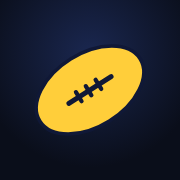
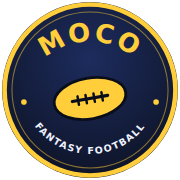
Live voting with public roll call, and a MoCo Fantasy Football crest
Voting no longer generates ballot codes. Members pick their name, tap
choices, and Submit writes to a shared JSON ballot box (jsonblob);
a Live Results board shows who voted for what — per-option voter names,
live passing/not-passing verdicts, abstentions, and who's still missing —
refreshing every 20 seconds. Votes are keyed by member, so re-voting
updates your entry. Until the commish creates the shared box (one-time
card on the Vote tab, VOTING.store config), the tab shows setup
instructions. Commissioner tally and ballot-code plumbing removed.

New league crest: gold badge with arched MOCO wordmark, stitched
football, FANTASY FOOTBALL arc — now the header logo, favicon, and
home-screen icon.

Claude-Session: https://claude.ai/code/session_011bhkcK5pGqLv39nWfNP1Ph

diff --git a/index.html b/index.html
@@ -331,7 +331,7 @@
 
 <header>
   <div class="brand">
-    <div class="logo" id="league-logo">🏈</div>
+    <div class="logo" id="league-logo"><img src="icon.svg" alt="MoCo Fantasy Football" /></div>
     <div class="title">
       <h1 id="site-title">League HQ</h1>
       <p id="site-sub">Trophies · Records · Votes</p>
@@ -403,24 +403,34 @@
   <section id="view-vote" class="hidden">
     <div class="card">
       <h2>Rule Changes on the Ballot</h2>
-      <p class="sub">
-        Cast your ballot below, then paste your ballot code in the league chat.
-        The commish pastes everyone's codes into the tally tool for official results —
-        votes are public in the chat, so everything is verifiable.
-      </p>
+      <p class="sub">Voting is live and public — pick your name, make your calls, hit submit. The board below updates for the whole league.</p>
       <div id="prop-list"></div>
     </div>
 
-    <div class="card">
-      <h2>🗳 Cast Your Ballot</h2>
+    <div class="card" id="vote-setup-card" style="display:none">
+      <h2>🔌 Turn on live voting</h2>
+      <p class="sub">One-time commish step: the league needs a shared ballot box (a tiny free JSON store — no accounts, nothing to install).</p>
+      <div style="display:flex;gap:10px;flex-wrap:wrap">
+        <button class="btn gold" id="store-create">Create the ballot box</button>
+      </div>
+      <div id="store-out"></div>
+    </div>
+
+    <div class="card" id="vote-cast-card">
+      <h2>🗳 Cast Your Vote</h2>
       <label>Who are you?</label>
       <select id="ballot-who"></select>
       <div id="ballot-props"></div>
-      <div style="margin-top:14px;display:flex;gap:10px;flex-wrap:wrap">
-        <button class="btn gold" id="ballot-gen">Generate ballot code</button>
-        <button class="btn hidden" id="ballot-copy">Copy code</button>
+      <div style="margin-top:14px">
+        <button class="btn gold" id="vote-submit">Submit my votes</button>
       </div>
-      <div id="ballot-out"></div>
+      <div id="vote-out"></div>
+    </div>
+
+    <div class="card">
+      <h2>📊 Live Results</h2>
+      <p class="sub">Public roll call — everyone sees who voted for what. Updates automatically.</p>
+      <div id="live-results"></div>
     </div>
 
     <div class="card">
@@ -441,13 +451,6 @@
       <div id="prop-out"></div>
     </div>
 
-    <div class="card">
-      <h2>🧮 Commissioner Tally</h2>
-      <p class="sub">Paste the league chat (or just everyone's ballot codes) below. Duplicate ballots from the same person count once — the newest wins.</p>
-      <textarea id="tally-input" placeholder="Paste ballot codes here… (they look like TCB1.eyJ1Ijo…)"></textarea>
-      <div style="margin-top:10px"><button class="btn gold" id="tally-go">Tally votes</button></div>
-      <div id="tally-out"></div>
-    </div>
   </section>
 
   <!-- ============ BANK ============ -->
@@ -610,6 +613,12 @@ const PROPOSALS = [
     status: "open",
   },
 ];
+
+/* 2a) Live voting ballot box — a shared JSON store URL so votes show up
+      live for the whole league. One-time setup: Vote tab → "Create the
+      ballot box", then paste the URL it gives you here. Until then, live
+      voting runs per-device only. */
+const VOTING = { store: "" };
 
 /* 2b) The rookie draft lottery (Article IV). Odds for the non-playoff
       teams, worst record first. Renormalized automatically if the lottery
@@ -784,7 +793,6 @@ async function boot() {
     Object.assign(state, { nfl, league, users, rosters });
     $("site-title").textContent = league.name || "League HQ";
     $("site-sub").textContent = `${league.season} · ${league.total_rosters} teams · Trophies · Records · Votes`;
-    if (league.avatar) $("league-logo").innerHTML = `<img src="${esc(CDN + league.avatar)}" alt="">`;
     $("btn-sleeper").href = `https://sleeper.com/leagues/${state.leagueId}`;
     $("nav").classList.remove("hidden");
     $("settings-league-id").textContent = state.leagueId;
@@ -812,6 +820,7 @@ function showView(v) {
   state.view = v;
   for (const x of VIEWS) $(`view-${x}`).classList.toggle("hidden", x !== v);
   document.querySelectorAll(".tab").forEach((t) => t.classList.toggle("active", t.dataset.view === v));
+  if (v === "vote") renderVote();
   if (v === "bank") renderBank();
   if (v === "lottery") renderLottery();
   if (v === "draft") renderDraft();
@@ -1577,10 +1586,21 @@ function renderVote() {
     state.users.map((u) => `<option value="${esc(u.user_id)}">${esc(u.display_name)}${u.metadata && u.metadata.team_name ? ` (${esc(u.metadata.team_name)})` : ""}</option>`).join("");
   $("ballot-who").innerHTML = userOpts;
   $("prop-who").innerHTML = userOpts;
+  const me = localStorage.getItem("dhq_me");
+  if (me && state.users.some((u) => u.user_id === me)) $("ballot-who").value = me;
+
+  const hasStore = !!voteStore();
+  $("vote-setup-card").style.display = hasStore ? "none" : "";
+  $("vote-cast-card").style.display = hasStore && open.length ? "" : "none";
+  if (!hasStore) {
+    $("live-results").innerHTML = `<p class="sub" style="margin:0">Live voting isn't switched on yet — commish, hit the card above and it's a 30-second job.</p>`;
+  } else {
+    refreshLive().catch((e) => { $("live-results").innerHTML = `<div class="msg err">Couldn't reach the ballot box — ${esc(e.message)}</div>`; });
+    startLivePolling();
+  }
 
   if (!open.length) {
     $("ballot-props").innerHTML = `<p class="sub" style="margin-top:12px">No open proposals to vote on.</p>`;
-    $("ballot-gen").disabled = true;
   } else {
     $("ballot-props").innerHTML = open.map((p) => `
       <div class="prop" data-prop="${esc(p.id)}">
@@ -1599,32 +1619,134 @@ function renderVote() {
   }
 }
 
-$("ballot-gen").addEventListener("click", () => {
+/* --- live voting: shared ballot box --- */
+function voteStore() { return (VOTING.store || localStorage.getItem("dhq_vote_store") || "").trim(); }
+async function storeGet() {
+  const r = await fetch(voteStore(), { headers: { Accept: "application/json" } });
+  if (!r.ok) throw new Error(`ballot box ${r.status}`);
+  const j = await r.json().catch(() => null);
+  return j && typeof j === "object" && j.votes && typeof j.votes === "object" ? j : { votes: {} };
+}
+async function storePut(doc) {
+  const r = await fetch(voteStore(), { method: "PUT", headers: { "Content-Type": "application/json" }, body: JSON.stringify(doc) });
+  if (!r.ok) throw new Error(`ballot box ${r.status}`);
+}
+
+let liveTimer = null;
+function startLivePolling() {
+  clearInterval(liveTimer);
+  liveTimer = setInterval(() => {
+    if (state.view === "vote" && document.visibilityState === "visible" && voteStore())
+      refreshLive().catch(() => {});
+  }, 20000);
+}
+async function refreshLive() { renderLiveResults(await storeGet()); }
+
+function renderLiveResults(doc) {
+  const open = PROPOSALS.filter((p) => p.status === "open");
+  const entries = Object.entries(doc.votes || {});
+  const nameOf = (uid) => {
+    const u = state.users.find((x) => x.user_id === uid);
+    return u ? u.display_name : ((doc.votes[uid] && doc.votes[uid].name) || "?");
+  };
+  if (!entries.length) {
+    $("live-results").innerHTML = `<p class="sub" style="margin:0">No votes yet — be the first on the board. 🗳</p>`;
+    return;
+  }
+  const votedIds = new Set(entries.map(([uid]) => uid));
+  const waiting = state.users.filter((u) => !votedIds.has(u.user_id));
+
+  const sections = open.map((p) => {
+    const opts = propOptions(p);
+    const byOpt = Object.fromEntries(opts.map((o) => [o, []]));
+    const abstained = [];
+    for (const [uid, rec] of entries) {
+      const c = rec && rec.v ? rec.v[p.id] : null;
+      if (c === "__abstain") abstained.push(nameOf(uid));
+      else if (c != null && byOpt[c]) byOpt[c].push(nameOf(uid));
+    }
+    const totalCast = opts.reduce((s, o) => s + byOpt[o].length, 0);
+    let verdict = "";
+    if (!p.options) {
+      const need = p.pass || 0.5;
+      const yes = byOpt["Yes"] ? byOpt["Yes"].length : 0;
+      const no = byOpt["No"] ? byOpt["No"].length : 0;
+      const yesFrac = totalCast ? yes / totalCast : 0;
+      const passing = totalCast > 0 && yesFrac > need - 1e-9 && (need !== 0.5 || yes > no);
+      verdict = totalCast
+        ? `<span class="chip ${passing ? "passed" : "failed"}">${passing ? "passing" : "not passing"}</span> <span class="owner">${Math.round(yesFrac * 100)}% yes, needs ${need === 0.5 ? "a majority" : Math.round(need * 100) + "%"}</span>`
+        : `<span class="owner">no votes cast</span>`;
+    } else {
+      const max = Math.max(...opts.map((o) => byOpt[o].length));
+      const leaders = opts.filter((o) => byOpt[o].length === max && max > 0);
+      verdict = leaders.length === 1 ? `<span class="chip passed">leading: ${esc(leaders[0])}</span>`
+        : max > 0 ? `<span class="chip open">tied</span>` : `<span class="owner">no votes cast</span>`;
+    }
+    return `<div class="prop">
+      <h3 style="font-size:14px">${esc(p.title)} ${verdict}</h3>
+      ${opts.map((o) => `<div class="tally-row">
+        <div class="lbl"><span>${esc(o)}</span><span>${byOpt[o].length}</span></div>
+        <div class="bar ${o === "Yes" ? "yes" : ""}"><div style="width:${totalCast ? (byOpt[o].length / totalCast) * 100 : 0}%"></div></div>
+        ${byOpt[o].length ? `<div class="owner">${byOpt[o].map(esc).join(", ")}</div>` : ""}
+      </div>`).join("")}
+      ${abstained.length ? `<div class="owner">Abstained: ${abstained.map(esc).join(", ")}</div>` : ""}
+    </div>`;
+  }).join("");
+
+  $("live-results").innerHTML = `
+    <div class="msg ok">${entries.length} of ${state.users.length} in: ${entries.map(([uid]) => esc(nameOf(uid))).join(", ")}</div>
+    ${waiting.length ? `<div class="msg info">Still waiting on: ${waiting.map((u) => esc(u.display_name)).join(", ")}</div>` : `<div class="msg ok">Everyone has voted. 🎉</div>`}
+    ${sections}`;
+}
+
+$("vote-submit").addEventListener("click", async () => {
   const who = $("ballot-who").value;
-  if (!who) { $("ballot-out").innerHTML = `<div class="msg err">Pick your name first.</div>`; return; }
-  const votes = {};
+  if (!who) { setMsg("vote-out", "err", "Pick your name first."); return; }
+  const v = {};
   let missing = 0;
   $("ballot-props").querySelectorAll(".prop").forEach((el) => {
     const sel = el.querySelector(".vote-opt.sel");
     if (!sel) { missing++; return; }
-    if (sel.dataset.opt !== "__abstain") votes[el.dataset.prop] = sel.dataset.opt;
+    v[el.dataset.prop] = sel.dataset.opt;
   });
-  if (missing) { $("ballot-out").innerHTML = `<div class="msg err">You have ${missing} unanswered proposal${missing > 1 ? "s" : ""} — pick an option (or Abstain) on each.</div>`; return; }
-  const payload = { u: who, ts: Date.now(), v: votes };
-  const code = "TCB1." + btoa(unescape(encodeURIComponent(JSON.stringify(payload))))
-    .replace(/\+/g, "-").replace(/\//g, "_").replace(/=+$/, "");
+  if (missing) { setMsg("vote-out", "err", `You have ${missing} unanswered proposal${missing > 1 ? "s" : ""} — pick an option (or Abstain) on each.`); return; }
   const user = state.users.find((x) => x.user_id === who);
-  $("ballot-out").innerHTML = `
-    <div class="msg ok">Ballot ready for <b>${esc(user ? user.display_name : who)}</b> — copy it and paste it in the league chat.</div>
-    <div class="ballot-code" id="ballot-code-text">${esc(code)}</div>`;
-  $("ballot-copy").classList.remove("hidden");
+  $("vote-submit").disabled = true;
+  try {
+    const doc = await storeGet().catch(() => ({ votes: {} }));
+    doc.votes[who] = { name: user ? user.display_name : who, ts: Date.now(), v };
+    await storePut(doc);
+    localStorage.setItem("dhq_me", who);
+    setMsg("vote-out", "ok", `Locked in ✓ — you're on the board, <b>${esc(user ? user.display_name : "friend")}</b>. Change your mind? Vote again and it updates.`);
+    renderLiveResults(doc);
+  } catch (e) {
+    setMsg("vote-out", "err", `Couldn't reach the ballot box — ${esc(e.message)}. Try again in a second.`);
+  }
+  $("vote-submit").disabled = false;
 });
 
-$("ballot-copy").addEventListener("click", async () => {
-  const el = $("ballot-code-text");
-  if (!el) return;
-  try { await navigator.clipboard.writeText(el.textContent); $("ballot-copy").textContent = "Copied ✓"; } catch {}
-  setTimeout(() => { $("ballot-copy").textContent = "Copy code"; }, 1500);
+$("store-create").addEventListener("click", async () => {
+  setMsg("store-out", "info", "Creating the ballot box…");
+  try {
+    const r = await fetch("https://jsonblob.com/api/jsonBlob", {
+      method: "POST", headers: { "Content-Type": "application/json", Accept: "application/json" },
+      body: JSON.stringify({ votes: {} }),
+    });
+    if (!r.ok) throw new Error("HTTP " + r.status);
+    let loc = r.headers.get("Location") || r.headers.get("X-jsonblob");
+    if (!loc) throw new Error("couldn't read the new box's address");
+    if (!/^https?:/i.test(loc)) loc = loc.startsWith("/") ? "https://jsonblob.com" + loc : "https://jsonblob.com/api/jsonBlob/" + loc;
+    localStorage.setItem("dhq_vote_store", loc);
+    $("store-out").innerHTML = `
+      <div class="msg ok">Ballot box created ✓ — live voting is on for this device right now.</div>
+      <div class="ballot-code">${esc(loc)}</div>
+      <p class="sub" style="margin-top:10px">Last step so it's live for <b>everyone</b>: paste that URL into <code>VOTING.store</code> at the top of this page's source and commit — or just send it to Claude.</p>`;
+    renderVote();
+  } catch (e) {
+    $("store-out").innerHTML = `
+      <div class="msg err">Auto-create didn't work here (${esc(e.message)}).</div>
+      <p class="sub">Manual route (30 seconds): open <a href="https://jsonblob.com" target="_blank" rel="noopener">jsonblob.com</a>, replace the sample text with <code>{"votes":{}}</code>, hit Save, copy the <b>…/api/jsonBlob/…</b> URL it shows, and paste it into <code>VOTING.store</code> in this page's source (or send it to Claude).</p>`;
+  }
 });
 
 /* proposal builder */
@@ -1665,75 +1787,6 @@ $("prop-copy").addEventListener("click", async () => {
   if (!el) return;
   try { await navigator.clipboard.writeText(el.textContent); $("prop-copy").textContent = "Copied ✓"; } catch {}
   setTimeout(() => { $("prop-copy").textContent = "Copy for the chat"; }, 1500);
-});
-
-/* tally */
-function decodeBallot(code) {
-  try {
-    const b64 = code.slice(5).replace(/-/g, "+").replace(/_/g, "/");
-    const json = decodeURIComponent(escape(atob(b64 + "=".repeat((4 - b64.length % 4) % 4))));
-    const p = JSON.parse(json);
-    if (!p || typeof p.u !== "string" || typeof p.v !== "object") return null;
-    return p;
-  } catch { return null; }
-}
-
-$("tally-go").addEventListener("click", () => {
-  const text = $("tally-input").value;
-  const codes = text.match(/TCB1\.[A-Za-z0-9_-]+/g) || [];
-  const ballots = codes.map(decodeBallot).filter(Boolean);
-  if (!ballots.length) { $("tally-out").innerHTML = `<div class="msg err">No valid ballot codes found in that text.</div>`; return; }
-
-  const byUser = {};
-  for (const b of ballots) if (!byUser[b.u] || (b.ts || 0) > (byUser[b.u].ts || 0)) byUser[b.u] = b;
-  const finalBallots = Object.values(byUser);
-  const userName = (uid) => {
-    const u = state.users.find((x) => x.user_id === uid);
-    return u ? u.display_name : `Unknown (${uid.slice(0, 6)}…)`;
-  };
-  const voted = new Set(finalBallots.map((b) => b.u));
-  const notVoted = state.users.filter((u) => !voted.has(u.user_id));
-
-  const open = PROPOSALS.filter((p) => p.status === "open");
-  const sections = open.map((p) => {
-    const opts = propOptions(p);
-    const counts = Object.fromEntries(opts.map((o) => [o, 0]));
-    let abstain = 0;
-    for (const b of finalBallots) {
-      const v = b.v[p.id];
-      if (v == null) abstain++;
-      else if (v in counts) counts[v]++;
-    }
-    const totalCast = opts.reduce((s, o) => s + counts[o], 0);
-    let verdict = "";
-    if (!p.options) {
-      const need = p.pass || 0.5;
-      const yesFrac = totalCast ? counts["Yes"] / totalCast : 0;
-      const passing = totalCast > 0 && yesFrac > need - 1e-9 && (need !== 0.5 || counts["Yes"] > counts["No"]);
-      verdict = totalCast
-        ? `<span class="chip ${passing ? "passed" : "failed"}">${passing ? "passing" : "not passing"}</span> <span class="owner">${Math.round(yesFrac * 100)}% yes, needs ${need === 0.5 ? "a majority" : Math.round(need * 100) + "%"}</span>`
-        : `<span class="owner">no votes cast</span>`;
-    } else {
-      const max = Math.max(...opts.map((o) => counts[o]));
-      const leaders = opts.filter((o) => counts[o] === max && max > 0);
-      verdict = leaders.length === 1 ? `<span class="chip passed">leading: ${esc(leaders[0])}</span>`
-        : max > 0 ? `<span class="chip open">tied</span>` : `<span class="owner">no votes cast</span>`;
-    }
-    return `<div class="prop">
-      <h3 style="font-size:14px">${esc(p.title)} ${verdict}</h3>
-      ${opts.map((o) => `<div class="tally-row">
-        <div class="lbl"><span>${esc(o)}</span><span>${counts[o]}</span></div>
-        <div class="bar ${o === "Yes" ? "yes" : ""}"><div style="width:${totalCast ? (counts[o] / totalCast) * 100 : 0}%"></div></div>
-      </div>`).join("")}
-      ${abstain ? `<div class="owner">Abstained/skipped: ${abstain}</div>` : ""}
-    </div>`;
-  }).join("");
-
-  $("tally-out").innerHTML = `
-    <div class="msg ok">${finalBallots.length} ballot${finalBallots.length > 1 ? "s" : ""} counted:
-      ${finalBallots.map((b) => esc(userName(b.u))).join(", ")}</div>
-    ${notVoted.length ? `<div class="msg info">Still waiting on: ${notVoted.map((u) => esc(u.display_name)).join(", ")}</div>` : `<div class="msg ok">Everyone has voted. 🎉</div>`}
-    ${sections}`;
 });
 
 /* ---------------- add-to-home-screen nudge (first visit, mobile only) ---------------- */
